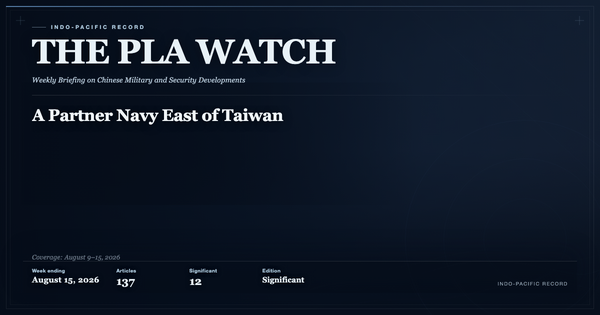
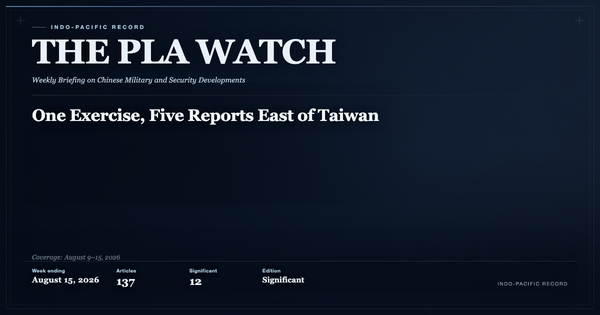
fix(preview): the series page spans the rename; narrow No. 14's argument and retitle it
**The last blanket falsehood.** `pla-watch.html` said the whole continuing
series "was published from 2026 under the predecessor masthead China Mil
Watch", that "it is a legacy series", that "those issues were published by
China Mil Watch", and that nothing was rewritten to look as though it appeared
under Indo-Pacific Record "because it did not". All four became false with
No. 14.

The page now says the series continues across the rename and counts each side
from the resolved view models: "13 earlier editions were published under China
Mil Watch, while 1 later edition is published by Indo-Pacific Record." The
preservation notice says each issue keeps its own publication identity, and the
predecessor-domain redirect is scoped to the editions that carried that
masthead. No. 14's row shows Retrospective edition. The template infers no
boundary, names no publication of its own, and the stale "the same 13 titles"
comment is gone. 11 behavioural tests cover it, including an all-historical
fixture that must still explain the predecessor correctly.

Three guards elsewhere pinned exact phrases from the old prose and are updated
to the new wording while keeping their intent: each now also asserts the
predecessor attribution is scoped to a counted subset rather than applied to
every issue, which is a stronger check than the phrase match it replaces.

**Editorial revision, per direction. Still a draft.**
[…]

Changed region(s): [[0.03, 0.3429, 0.63, 0.4]]

diff --git a/output/the-pla-watch/posts/2026-08-15.html b/output/the-pla-watch/posts/2026-08-15.html
@@ -3,8 +3,8 @@
 <head>
   <meta charset="UTF-8">
   <meta name="viewport" content="width=device-width, initial-scale=1.0">
-  <title>The PLA Watch: A Partner Navy East of Taiwan — The PLA Watch</title>
-  <meta name="description" content="Chinese official media spent the week presenting the PLA to audiences outside it. A bilateral passage exercise with Indonesia was placed in waters east of Taiwan, a Chinese diplomat contested Washington&#39;s account of a missile test in Geneva, and two accounts of women in combat aviation carried the same institutional message.">
+  <title>The PLA Watch: One Exercise, Five Reports East of Taiwan — The PLA Watch</title>
+  <meta name="description" content="Five of the twelve records flagged in the week ending 15 August 2026 describe a single China-Indonesia naval passage exercise. They ran across three outlets on three publication dates, and every one of them put the operating area east of Taiwan in the headline.">
 
   <!-- Canonical URL -->
   <link rel="canonical" href="https://indopacificrecord.org/the-pla-watch/posts/2026-08-15.html">
@@ -13,16 +13,16 @@
   <meta property="og:type"         content="article">
   <meta property="og:site_name"    content="The PLA Watch">
   <meta property="og:url"          content="https://indopacificrecord.org/the-pla-watch/posts/2026-08-15.html">
-  <meta property="og:title"        content="The PLA Watch: A Partner Navy East of Taiwan">
-  <meta property="og:description"  content="Chinese official media spent the week presenting the PLA to audiences outside it. A bilateral passage exercise with Indonesia was placed in waters east of Taiwan, a Chinese diplomat contested Washington&#39;s account of a missile test in Geneva, and two accounts of women in combat aviation carried the same institutional message.">
+  <meta property="og:title"        content="The PLA Watch: One Exercise, Five Reports East of Taiwan">
+  <meta property="og:description"  content="Five of the twelve records flagged in the week ending 15 August 2026 describe a single China-Indonesia naval passage exercise. They ran across three outlets on three publication dates, and every one of them put the operating area east of Taiwan in the headline.">
   <meta property="og:image"        content="https://indopacificrecord.org/the-pla-watch/covers/2026-08-15.png">
   <meta property="og:image:width"  content="1200">
   <meta property="og:image:height" content="630">
 
   <!-- Twitter Card -->
   <meta name="twitter:card"        content="summary_large_image">
-  <meta name="twitter:title"       content="The PLA Watch: A Partner Navy East of Taiwan">
-  <meta name="twitter:description" content="Chinese official media spent the week presenting the PLA to audiences outside it. A bilateral passage exercise with Indonesia was placed in waters east of Taiwan, a Chinese diplomat contested Washington&#39;s account of a missile test in Geneva, and two accounts of women in combat aviation carried the same institutional message.">
+  <meta name="twitter:title"       content="The PLA Watch: One Exercise, Five Reports East of Taiwan">
+  <meta name="twitter:description" content="Five of the twelve records flagged in the week ending 15 August 2026 describe a single China-Indonesia naval passage exercise. They ran across three outlets on three publication dates, and every one of them put the operating area east of Taiwan in the headline.">
   <meta name="twitter:image"       content="https://indopacificrecord.org/the-pla-watch/covers/2026-08-15.png">
 
   <link rel="icon" type="image/png" href="../../logo-icon.png">
@@ -1289,8 +1289,8 @@
 No. 14 · Week ending 15 August 2026
 <span class="pw-badge pw-badge--significant">Significant</span><span class="pw-badge pw-badge--retrospective">Retrospective edition</span>  </div>
 </div>
-<h1 class="hero-title">A Partner Navy East of Taiwan</h1>
-<div class="hero-dek">Chinese official media spent the week presenting the PLA to audiences outside it. A bilateral passage exercise with Indonesia was placed in waters east of Taiwan, a Chinese diplomat contested Washington&#39;s account of a missile test in Geneva, and two accounts of women in combat aviation carried the same institutional message.</div>
+<h1 class="hero-title">One Exercise, Five Reports East of Taiwan</h1>
+<div class="hero-dek">Five of the twelve records flagged in the week ending 15 August 2026 describe a single China-Indonesia naval passage exercise. They ran across three outlets on three publication dates, and every one of them put the operating area east of Taiwan in the headline.</div>
 <div class="byline">
   By <span class="byline-name">Benjamin Yang</span>
 <span class="byline-title">Creator and Editor, Indo-Pacific Record</span></div>
@@ -1312,7 +1312,7 @@ No. 14 · Week ending 15 August 2026
           <rect class="draw-path" pathLength="1" style="--pi: 1;" x="0.5" y="0.5" width="99" height="39"/>
         </svg>
         <div class="signal-eyebrow">This week's signal</div>
-        <div class="signal-text">One exercise, five reports across three outlets on three publication dates. Five of the week&#39;s twelve flagged records describe a short passage drill whose location did more work than its content.</div>
+        <div class="signal-text">One exercise, five reports across three outlets on three publication dates. The activities described were limited; the location framing was not.</div>
       </div>
 
     <div class="snapshot" id="s-snapshot" data-reveal>
@@ -1358,25 +1358,25 @@ No. 14 · Week ending 15 August 2026
       <div class="post-section opening" id="s-opening" data-reveal>
         <div class="mod-heading brand">Opening Note</div>
         <div class="section-text">
-<p>This edition covers the week of 9 to 15 August 2026 and was prepared afterwards, in September. It is a record of what Chinese official and state-linked military media published that week, not a dispatch written as the week unfolded, and it should be read that way.</p><p>The corpus for the week holds 229 records, of which 137 passed relevance screening and all 137 were analysed. Nothing in the window was left unscreened. Four sources contributed: PLA Daily supplied 111 of the 137 relevant records, China Military Online 14, Global Times Defense 10, and MOD China 2. That concentration is normal for this corpus and is described in the methodology; it is worth holding in mind whenever a week appears to speak with one voice.</p>        </div>
+<p>This edition covers the week of 9 to 15 August 2026 and was prepared afterwards, in September, as part of restoring the weekly cadence. It is a record of what Chinese official and state-linked military media published that week, not a dispatch written as the week unfolded.</p><p>The corpus for the week holds 229 records, of which 137 passed relevance screening and all 137 were analysed. Nothing in the window was left unscreened. Four sources contributed: PLA Daily supplied 111 of the 137 relevant records, China Military Online 14, Global Times Defense 10, and MOD China 2. That concentration is normal for this corpus and is described in the methodology; it is worth holding in mind whenever a week appears to speak with one voice.</p>        </div>
       </div>
 
       <div class="post-section" id="s-stood-out" data-reveal>
         <div class="mod-heading brand">What Stood Out</div>
         <div class="section-text">
-<p>On 11 August, PLA Daily announced that the Chinese Navy replenishment ship Honghe and the Indonesian Navy frigate Rê would conduct a passage exercise in waters east of Taiwan Island. On 12 August the same outlet reported the drill complete, listing formation manoeuvring, underway replenishment and signal communications. China Military Online and Global Times carried the announcement in English on 11 August, and PLA Daily returned to it on 14 August.</p><p>That is one exercise: five reports across three outlets on three publication dates, 11, 12 and 14 August. Five of the week&#39;s twelve flagged records describe it. It should be counted once, not read as five corroborating events.</p><p>The drill itself is unremarkable. Formation manoeuvring and replenishment are the ordinary content of a bilateral passage exercise, and the reports describe a short encounter, not a combined operation. What the reporting emphasises is where it happened. Every account names the operating area explicitly, in the headline, rather than leaving it to the body text.</p><p>Two other items are worth separating from the routine. On 12 August, China Military Online reported that China&#39;s Ambassador for Disarmament Affairs, Li Chijiang, rejected a joint statement led by the United States at the Conference on Disarmament in Geneva concerning a 6 July submarine-launched ballistic missile test. The report has China disputing the American characterisation of how much advance notice was given. On 14 August, PLA Daily and MOD China both carried an account of the Navy&#39;s female carrier-based pilot trainees completing daytime solo carrier-landing assessments in Bohai Bay, and on 13 August PLA Daily published a named profile of a J-16 pilot, Tian Jing.</p>        </div>
+<p>On 11 August, PLA Daily announced that the Chinese Navy replenishment ship Honghe and the Indonesian Navy frigate Re would conduct a passage exercise in waters east of Taiwan Island. China Military Online and Global Times carried the announcement in English the same day. On 12 August PLA Daily reported the drill complete, listing formation manoeuvring, underway replenishment and signal communications. PLA Daily returned to it on 14 August.</p><p>That is one exercise: five reports across three outlets on three publication dates. Five of the week&#39;s twelve flagged records describe it, and it should be counted once rather than read as five corroborating events.</p><p>The activities described are limited and routine. Formation manoeuvring, replenishment and signal drills are the ordinary content of a passage exercise, and the reports describe a short encounter rather than a combined operation.</p><p>What does not vary across the five reports is the location framing. Every one of the five headlines names the operating area east of Taiwan Island rather than leaving it to the body text. That is a property of how the reports were written and titled, and it is observable directly in the stored titles.</p>        </div>
       </div>
 
       <div class="post-section" id="s-why" data-reveal>
         <div class="mod-heading brand">Why It Matters</div>
         <div class="section-text">
-<p>The week&#39;s most notable items share an orientation: they are addressed outward. Chinese and Indonesian vessels conducted an exercise in waters east of Taiwan, and the location was placed in the headline. A Chinese official contested an American account in a multilateral forum. Two aviation accounts present women in frontline flying roles, one in the Navy&#39;s carrier-aviation pipeline and one, described by the source as a PLAAF profile, in a fourth-generation fighter. Global Times, writing in English, released capability footage on 9 August.</p><p>What this establishes is limited but real: it tells us what these institutions chose to publish, and to whom. Choosing to name the operating area east of Taiwan in a headline is an editorial decision by the publisher, and it recurs across three outlets in the same week.</p><p>What it does not establish is intent. None of these records shows why the exercise was placed where it was, what Jakarta understood itself to be doing, or whether any of it was coordinated as a message. Official media shows messaging; it does not show decision-making. A reader should also resist reading the Geneva exchange as confirmation of the underlying test&#39;s characteristics. The report confirms that China publicly disputed an American statement about notification, which is a different and narrower fact.</p><p>One source distinction matters here. Global Times is state-linked rather than official, and its capability videos signal a line aimed at foreign readers; they are not an authorised institutional position in the way a Ministry of National Defense release is. The two female-aviation reports of 14 August are the same release carried by two outlets, not two independent accounts.</p>        </div>
+<p>The repeated framing supports a claim about publication emphasis, and only that. Across three outlets and three days, the same short drill was presented with its operating area in the headline each time. Where a headline places a fact is an editorial decision by the publisher, and here the same decision recurs five times.</p><p>It does not establish Beijing&#39;s operational intent, how Jakarta understood its own participation, or that any of this was coordinated as a signalling plan. None of the five records speaks to any of those questions. Official media shows what an institution published; it does not show why.</p><p>Nor does the repetition strengthen the underlying facts. Three outlets reporting one exercise is one event reported three times, not three independent confirmations of it.</p>        </div>
       </div>
 
       <div class="post-section" id="s-routine" data-reveal>
         <div class="mod-heading brand">Routine Baseline</div>
         <div class="section-text">
-<p>The bulk of the week was ordinary institutional output. Political work items were the largest single category among relevant records, followed by exercise coverage and doctrinal writing. A representative example of the latter appeared on 9 August, when PLA Daily published a theoretical article arguing that artificial intelligence integrated across the operational chain compresses decision timing, introducing terminology for the idea. Doctrinal essays of this kind appear steadily in PLA Daily and are useful as evidence of what concepts are being circulated, not as evidence that any capability exists.</p><p>Global Times also reported on 9 August that the Sansha Maritime Safety Administration had issued a navigation alert for drills near Xisha Qundao. Navigation alerts of this type are published regularly and are not, in themselves, notable.</p>        </div>
+<p>Two other items in the week are notable enough to record separately, and neither is offered in support of the argument above.</p><p>On 12 August, China Military Online reported that China&#39;s Ambassador for Disarmament Affairs, Li Chijiang, rejected a joint statement led by the United States at the Conference on Disarmament in Geneva concerning a 6 July submarine-launched ballistic missile test, disputing the American characterisation of how much advance notice was given. This appears in the window through that single China Military Online report. It establishes that China publicly disputed the American account; it does not establish the facts of the test itself.</p><p>Two separate aviation accounts appeared. On 14 August, PLA Daily and MOD China carried the same release describing the Navy&#39;s female carrier-based pilot trainees completing daytime solo carrier-landing assessments in Bohai Bay. On 13 August, PLA Daily published a named profile of a J-16 pilot, Tian Jing, which the stored record describes as a PLAAF profile. These are different services and different stories, and they are not evidence for one another.</p><p>The rest of the week was ordinary institutional output. Political work items were the largest category among relevant records, followed by exercise coverage and doctrinal writing. On 9 August PLA Daily published a theoretical article on artificial intelligence and decision timing, and Global Times, which is state-linked rather than official, reported a Sansha Maritime Safety Administration navigation alert for drills near Xisha Qundao and released capability footage. Doctrinal essays and navigation alerts appear steadily and evidence circulating concepts and routine notices, not capability.</p>        </div>
       </div>
 
       <div class="post-section" id="s-term" data-reveal>
@@ -1391,7 +1391,7 @@ No. 14 · Week ending 15 August 2026
       <div class="post-section" id="s-watching" data-reveal>
         <div class="mod-heading brand">What I'm Watching Next</div>
         <div class="section-text">
-<p>Whether the location choice repeats. A single bilateral passage exercise east of Taiwan is one data point, and reading a pattern into it would be premature. If further exercises with regional partners are reported in the same waters, and the operating area continues to be named in headlines, that would be evidence of a deliberate practice rather than a single instance. The absence of any repetition would be equally informative.</p><p>Also worth following: whether the Navy&#39;s carrier-aviation training accounts continue, since the 14 August report describes night carrier landings as the next stage.</p>        </div>
+<p>Whether the location framing repeats. One exercise reported five times is a single instance, and reading a practice into it would be premature. If further exercises with regional partners are reported in the same waters and the operating area keeps appearing in headlines, that would be evidence of a consistent editorial choice rather than one week&#39;s. No repetition would be equally informative.</p><p>Also worth following: whether the Navy&#39;s carrier-aviation training accounts continue, since the 14 August report describes night carrier landings as the next stage.</p>        </div>
       </div>
 
       <div class="post-section source-trail" id="s-sources" data-reveal>
@@ -1528,7 +1528,7 @@ No. 14 · Week ending 15 August 2026
 
     <div class="sb-card">
       <div class="sb-eyebrow">Cite this edition</div>
-      <div class="cite-text" id="pw-cite">Benjamin Yang, “The PLA Watch: A Partner Navy East of Taiwan,” <em>The PLA Watch</em> No. 14, Indo-Pacific Record, 15 August 2026. https://indopacificrecord.org/the-pla-watch/posts/2026-08-15.html</div>
+      <div class="cite-text" id="pw-cite">Benjamin Yang, “The PLA Watch: One Exercise, Five Reports East of Taiwan,” <em>The PLA Watch</em> No. 14, Indo-Pacific Record, 15 August 2026. https://indopacificrecord.org/the-pla-watch/posts/2026-08-15.html</div>
       <button type="button" class="cite-copy" id="pw-cite-copy">Copy citation</button>
     </div>
 

diff --git a/site/preview/templates/pla_watch.html b/site/preview/templates/pla_watch.html
@@ -1,20 +1,27 @@
 {% extends "base.html" %}
-{% block title %}{{ predecessor_series }} — {{ title }}{% endblock %}
+{% block title %}{{ lead_edition.series_name if lead_edition else predecessor_series }} — {{ title }}{% endblock %}
 {% block content %}
+{# Era comes from `load_editions()`, which resolves each sidecar through
+   core.edition_identity. The page states which publication published which
+   issues, so it must not restate a name or infer a boundary of its own. #}
+{% set historical_editions = editions | selectattr('era', 'equalto', 'historical') | list %}
+{% set current_editions = editions | selectattr('era', 'equalto', 'current') | list %}
 <p class="meta"><a href="analysis.html">← Analysis</a></p>
-<h1>{{ predecessor_series }}</h1>
-<p class="lede">The weekly analytical series of the China Desk, published from 2026 under the
-predecessor masthead {{ predecessor_name }}. It is a legacy series in the archival sense — it
-was published under a name this project no longer uses — not a discontinued one.</p>
+<h1>{{ lead_edition.series_name if lead_edition else predecessor_series }}</h1>
+<p class="lede">The weekly analytical series of the China Desk. It continues across the
+project's publication rename:
+{% if historical_editions %}{{ historical_editions | length }} earlier editions were published under {{ predecessor_name }}{% endif %}{% if historical_editions and current_editions %}, while {{ current_editions | length }} later {{ 'edition is' if current_editions | length == 1 else 'editions are' }} published by {{ title }}{% endif %}{% if current_editions and not historical_editions %}{{ current_editions | length }} editions are published by {{ title }}{% endif %}.</p>
 
 <div class="notice">
   <h2 class="plain">These issues are preserved as published</h2>
-  <p>Every issue keeps the issue number, title, dek, byline and date it carried when it was
-  published, and keeps the path it was published at:
+  <p>Every issue keeps the issue number, title, dek, byline, date and publication identity it
+  carried when it was published, and keeps the path it was published at:
   <a href="{{ live_base }}/the-pla-watch/archive.html" rel="noopener">the full archive</a>.
-  Those issues were published by China Mil Watch, and {{ predecessor_name }}'s own domain
-  redirects to them rather than dropping them. Nothing here is rewritten to look as though it
-  appeared under {{ title }}, because it did not.</p>
+  {% if historical_editions %}{{ predecessor_name }}'s own domain redirects to the
+  {{ historical_editions | length }} editions published under that masthead rather than dropping
+  them.{% endif %} No issue is rewritten to look as though it appeared under a masthead
+  it did not carry, in either direction. The series continues; only the masthead above it
+  changed, so this is a relabelled series and not a discontinued one.</p>
 </div>
 
 <h2>Editions</h2>
@@ -43,8 +50,9 @@ judgment.</p>
       <td class="ed-title">
         <a href="{{ e.url }}" rel="noopener">{{ e.title or e.slug }}</a>
         {% if e.label %}<br><span class="meta ed-label-wide">{{ e.label }}</span>{% endif %}
+        {% if e.is_retrospective %}<br><span class="meta ed-timing">{{ e.retrospective_label }}</span>{% endif %}
         {# The citation belongs to the edition it cites, not to a second list
-           of the same 13 titles. A native <details> opens, closes and takes
+           of the same titles. A native <details> opens, closes and takes
            keyboard focus with no script at all; only the copy button inside is
            enhancement, and it ships hidden. #}
         <details class="ed-cite">

diff --git a/output/the-pla-watch/index.html b/output/the-pla-watch/index.html
@@ -1002,8 +1002,8 @@ main { padding-top: 2rem; }
 No. 14 · Week ending 15 August 2026
 <span class="pw-badge pw-badge--significant">Significant</span><span class="pw-badge pw-badge--retrospective">Retrospective edition</span>          </div>
         </div>
-        <h2 class="issue-cover-title"><a href="posts/2026-08-15.html">A Partner Navy East of Taiwan</a></h2>
-        <p class="issue-cover-dek">Chinese official media spent the week presenting the PLA to audiences outside it. A bilateral passage exercise with Indonesia was placed in waters east of Taiwan, a Chinese diplomat contested Washington&#39;s account of a missile test in Geneva, and two accounts of women in combat aviation carried the same institutional message.</p>
+        <h2 class="issue-cover-title"><a href="posts/2026-08-15.html">One Exercise, Five Reports East of Taiwan</a></h2>
+        <p class="issue-cover-dek">Five of the twelve records flagged in the week ending 15 August 2026 describe a single China-Indonesia naval passage exercise. They ran across three outlets on three publication dates, and every one of them put the operating area east of Taiwan in the headline.</p>
         <div class="issue-cover-byline">By <span class="byline-name">Benjamin Yang</span></div>
         <div class="issue-cover-meta">
           <span class="stat"><span class="num">137</span> articles</span>

diff --git a/output/the-pla-watch/archive.html b/output/the-pla-watch/archive.html
@@ -701,11 +701,11 @@
         </div>
         <div class="entry-body">
           <h2 class="entry-title">
-            <a href="posts/2026-08-15.html">The PLA Watch: A Partner Navy East of Taiwan</a>
+            <a href="posts/2026-08-15.html">The PLA Watch: One Exercise, Five Reports East of Taiwan</a>
               <span class="pw-badge pw-badge--retrospective">Retrospective edition</span>
               <span class="pw-badge pw-badge--significant">Significant</span>
           </h2>
-          <p class="entry-dek">Chinese official media spent the week presenting the PLA to audiences outside it. A bilateral passage exercise with Indonesia was placed in waters east of Taiwan, a Chinese diplomat contested Washington&#39;s account of a missile test in Geneva, and two accounts of women in combat aviation carried the same institutional message.</p>
+          <p class="entry-dek">Five of the twelve records flagged in the week ending 15 August 2026 describe a single China-Indonesia naval passage exercise. They ran across three outlets on three publication dates, and every one of them put the operating area east of Taiwan in the headline.</p>
           <div class="entry-meta">
             <span>137 articles analyzed</span>
               <span class="sep"></span>

diff --git a/tests/test_preview_prototype.py b/tests/test_preview_prototype.py
@@ -5673,3 +5673,121 @@ class TestPreviewEditionIdentity(unittest.TestCase):
         with self.assertRaises(IdentityError) as caught:
             gp.load_editions(tmp)
         self.assertIn("2026-08-15", str(caught.exception))
+
+
+class TestPlaWatchPageSpansTheRename(unittest.TestCase):
+    """
+    The series page describes the whole series, which now spans a publication
+    rename. Before this coverage it said, of every issue, that the series "was
+    published from 2026 under the predecessor masthead China Mil Watch", that
+    it "is a legacy series", and that "those issues were published by China Mil
+    Watch" with "nothing here rewritten to look as though it appeared under
+    Indo-Pacific Record, because it did not". All four became false when No. 14
+    was published under the current masthead.
+
+    Counts come from the edition view models; the template infers no boundary
+    and names no publication of its own.
+    """
+
+    HISTORICAL = "China Mil Watch"
+    CURRENT = "Indo-Pacific Record"
+
+    @classmethod
+    def setUpClass(cls):
+        from core.edition_identity import RETROSPECTIVE_LABEL
+        cls.RETRO = RETROSPECTIVE_LABEL
+        cls.editions = gp.load_editions(REPO_ROOT)
+        cls.hist = [e for e in cls.editions if e["era"] == "historical"]
+        cls.cur = [e for e in cls.editions if e["era"] == "current"]
+        cls.html = cls._render(cls.editions)
+
+    @classmethod
+    def _render(cls, editions):
+        """Build the real preview with a chosen edition set, in a temp tree."""
+        import shutil as _shutil
+        import tempfile as _tempfile
+        tmp = Path(_tempfile.mkdtemp(prefix="preview-plawatch-"))
+        real = gp.load_editions
+        gp.load_editions = lambda *a, **k: editions
+        try:
+            gp.build(tmp / "out", "Indo-Pacific Record", TRACKED_DB,
+                     snapshot=gp.snapshot_from_corpus(TRACKED_DB))
+            html = (tmp / "out" / "pla-watch.html").read_text(encoding="utf-8")
+        finally:
+            gp.load_editions = real
+            _shutil.rmtree(tmp, ignore_errors=True)
+        return html
+
+    def test_the_page_does_not_call_the_whole_series_legacy(self):
+        self.assertNotIn("It is a legacy series", self.html)
+        self.assertNotIn("published from 2026 under the\npredecessor masthead",
+                         self.html)
+
+    def test_the_page_says_the_series_continues_across_the_rename(self):
+        text = re.sub(r"\s+", " ", self.html)
+        self.assertIn("continues across", text)
+        self.assertIn(self.HISTORICAL, text)
+        self.assertIn(self.CURRENT, text)
+
+    def test_the_counts_are_derived_not_hard_coded(self):
+        text = re.sub(r"\s+", " ", self.html)
+        self.assertIn("%d earlier editions" % len(self.hist), text)
+        self.assertIn("%d later" % len(self.cur), text)
+        # The literals must not be baked into the template.
+        src = (REPO_ROOT / "site" / "preview" / "templates"
+               / "pla_watch.html").read_text(encoding="utf-8")
+        for literal in ("13 editions", "13 issues", "the same 13 titles"):
+            with self.subTest(literal=literal):
+                self.assertNotIn(literal, src)
+
+    def test_only_historical_editions_are_attributed_to_the_predecessor(self):
+        text = re.sub(r"\s+", " ", self.html)
+        self.assertNotIn("Those issues were published by %s" % self.HISTORICAL,
+                         text)
+        self.assertIn("%d earlier editions were published under %s"
+                      % (len(self.hist), self.HISTORICAL), text)
+
+    def test_current_editions_are_attributed_to_the_current_publication(self):
+        text = re.sub(r"\s+", " ", self.html)
+        self.assertIn("published by %s" % self.CURRENT, text)
+
+    def test_each_issue_is_said_to_keep_its_own_publication_identity(self):
+        text = re.sub(r"\s+", " ", self.html)
+        self.assertIn("publication identity", text)
+        self.assertNotIn("because it did not", text)
+
+    def test_the_redirect_note_is_scoped_to_the_historical_editions(self):
+        text = re.sub(r"\s+", " ", self.html)
+        self.assertRegex(
+            text,
+            r"redirects to the \d+ editions published under that masthead")
+
+    def test_edition_14_row_shows_the_retrospective_label(self):
+        row = re.search(r'<tr>(?:(?!</tr>).)*?2026-08-15.*?</tr>',
+                        self.html, re.S)
+        self.assertIsNotNone(row, "No. 14 row not found")
+        self.assertIn(self.RETRO, row.group(0))
+
+    def test_a_historical_edition_row_shows_no_retrospective_label(self):
+        row = re.search(r'<tr>(?:(?!</tr>).)*?2026-08-08.*?</tr>',
+                        self.html, re.S)
+        self.assertIsNotNone(row)
+        self.assertNotIn(self.RETRO, row.group(0))
+
+    def test_an_all_historical_fixture_still_explains_the_predecessor(self):
+        html = self._render(self.hist)
+        text = re.sub(r"\s+", " ", html)
+        self.assertIn(self.HISTORICAL, text)
+        self.assertIn("%d earlier editions were published under %s"
+                      % (len(self.hist), self.HISTORICAL), text)
+        self.assertNotIn(self.RETRO, text)
+
+    def test_the_template_infers_no_boundary_and_names_no_publication(self):
+        src = (REPO_ROOT / "site" / "preview" / "templates"
+               / "pla_watch.html").read_text(encoding="utf-8")
+        for banned in ("issue > 13", "issue >= 14", "issue_number > 13",
+                       '"China Mil Watch"', '"Indo-Pacific Record"'):
+            with self.subTest(pattern=banned):
+                self.assertNotIn(banned, src)
+        # Era comes from the contract-resolved field.
+        self.assertIn("era", src)

diff --git a/tests/test_url_transition_map.py b/tests/test_url_transition_map.py
@@ -322,7 +322,14 @@ class TestTheCandidateHonoursTheMap(unittest.TestCase):
             encoding="utf-8")
         self.assertIn("China Mil Watch", html)
         self.assertIn("preserved as published", html.lower())
-        self.assertIn("because it did not", html)
+        # Was `"because it did not"`, a phrase from prose that attributed every
+        # issue to the predecessor. The series now spans the rename, so the
+        # claim is scoped: earlier editions are named as the predecessor's, and
+        # no issue is presented under a masthead it did not carry.
+        self.assertIn("did not carry", html)
+        self.assertRegex(
+            html, r"\d+ earlier editions were published under China Mil Watch")
+        self.assertNotIn("Those issues were published by China Mil Watch", html)
 
     def test_every_new_route_the_map_advertises_is_actually_built(self):
         for advertised in self.map.new_routes:

diff --git a/tests/test_desk_rollout_contract.py b/tests/test_desk_rollout_contract.py
@@ -311,6 +311,12 @@ class TestLegacyChinaRoutesSurvive(DeskCase):
         self.assertIn("China Mil Watch", html)
         self.assertIn("preserved as published", html.lower())
         self.assertIn("did not", html)
+        # The series spans the rename, so the predecessor attribution is scoped
+        # to the editions that actually carried that masthead rather than
+        # applied to all of them.
+        self.assertRegex(
+            html, r"\d+ earlier editions were published under China Mil Watch")
+        self.assertNotIn("Those issues were published by China Mil Watch", html)
 
     def test_the_prototype_never_writes_into_the_production_namespace(self):
         for reserved in ("article", "the-pla-watch"):
